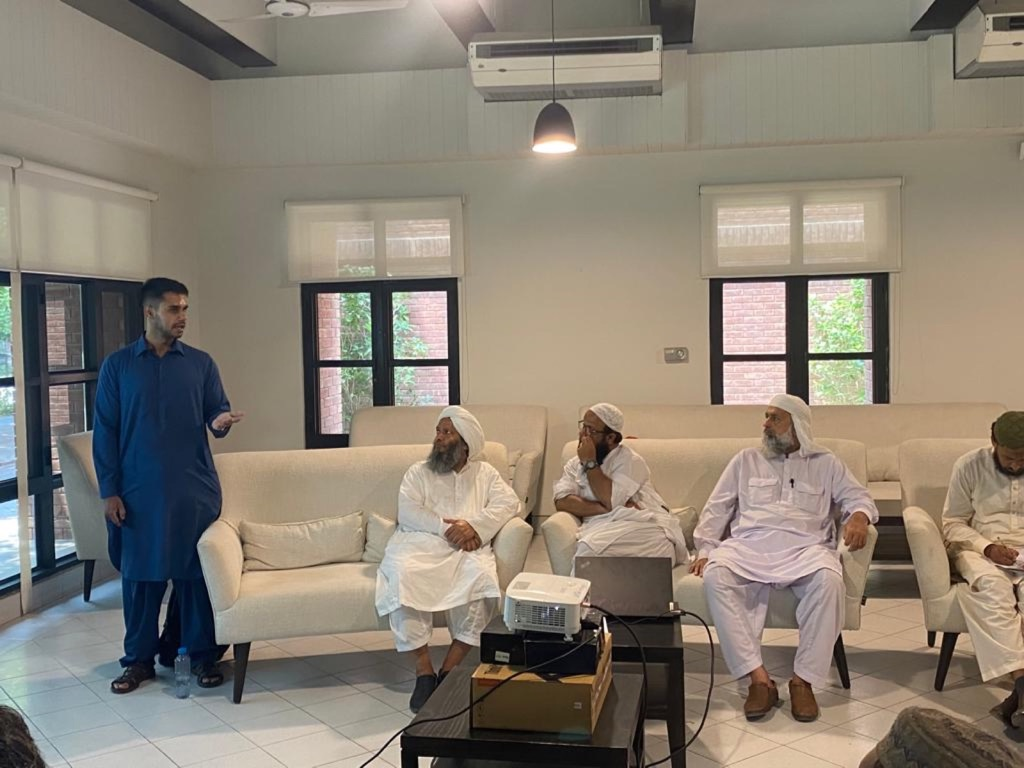
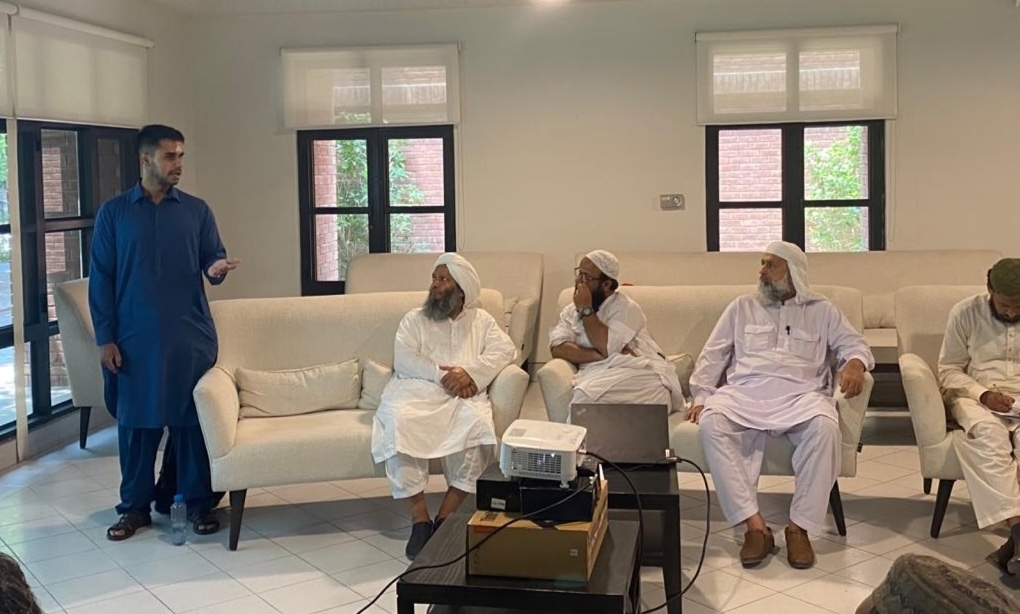
Use the supplied crops and stop cropping in CSS
The three photos arrive cropped to roughly 5:3 (1.66, 1.69, 1.69), so
the frame matches that and the images are contained rather than covered.
Nothing is trimmed at display time: each one paints to within 3px of the
frame edges.

Removes the 16:9 cover crop and the focus-top hook the mosque needed to
survive it, and the narrow-screen ratio override, which only existed to
stop that crop becoming a sliver.

diff --git a/styles.css b/styles.css
@@ -391,8 +391,9 @@ a:hover {
 }
 
 /* ---------- Field photo carousel ---------- */
-/* A wide cinematic frame. The photos are 4:3, so filling a 16:9 band
-   means cropping about a quarter of their height — see .slide img. */
+/* The frame matches the photos' own ~5:3 crop, and they are contained
+   rather than covered, so what is shown is exactly how they were cropped
+   — nothing is trimmed here. */
 
 .carousel {
   margin-top: 1.6rem;
@@ -402,7 +403,7 @@ a:hover {
    the letterboxing either side simply reads as margin. */
 .carousel-viewport {
   width: 100%;
-  aspect-ratio: 16 / 9;
+  aspect-ratio: 5 / 3;
   overflow: hidden;
 }
 
@@ -423,17 +424,9 @@ a:hover {
 .slide img {
   width: 100%;
   height: 100%;
-  /* Cover, so each photo fills the wide frame edge to edge. The band
-     taken is the middle of the image by default; add class="focus-top"
-     to a photo whose subject sits high in the frame and would lose its
-     top to a centred crop. */
-  object-fit: cover;
-  object-position: center center;
+  /* Contain, so a photo is shown whole as supplied. */
+  object-fit: contain;
   display: block;
-}
-
-.slide img.focus-top {
-  object-position: center top;
 }
 
 .carousel-controls {
@@ -530,11 +523,6 @@ a:hover {
     margin-inline: auto;
   }
 
-  /* 16:9 leaves only a sliver of height on a phone, so the band opens up
-     a little here while staying landscape. */
-  .carousel-viewport {
-    aspect-ratio: 3 / 2;
-  }
 
   /* Dividers read as stray marks once this row wraps, which it does at
      this width, so spacing carries the separation instead. */

diff --git a/index.html b/index.html
@@ -396,9 +396,8 @@
           <!--
             To add a photo: drop the file in photos/ and copy one <figure>
             block below, changing src and alt. Order here is the order it
-            appears in; the counter updates itself. Photos are cropped to
-            a wide band from their middle; add class="focus-top" if the
-            subject sits high and would lose its top.
+            appears in; the counter updates itself. Photos are shown as
+            supplied — crop them to roughly 5:3 before adding them.
           -->
           <div class="carousel" id="field-photos">
             <div class="carousel-viewport">
@@ -420,7 +419,6 @@
 
                 <figure class="slide">
                   <img
-                    class="focus-top"
                     src="photos/fieldphoto3.jpg"
                     alt="A large congregation seated under an awning outside a mosque faced in turquoise tilework"
                     loading="lazy"
